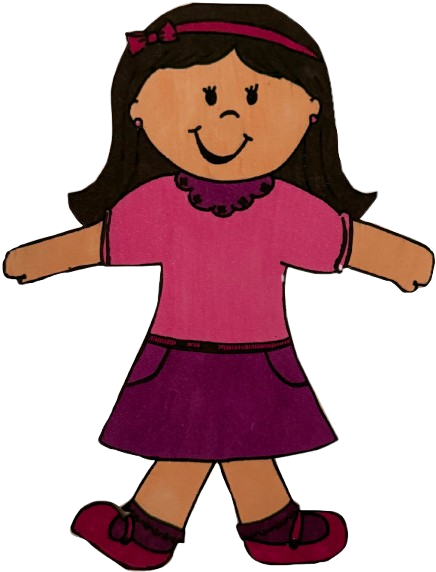
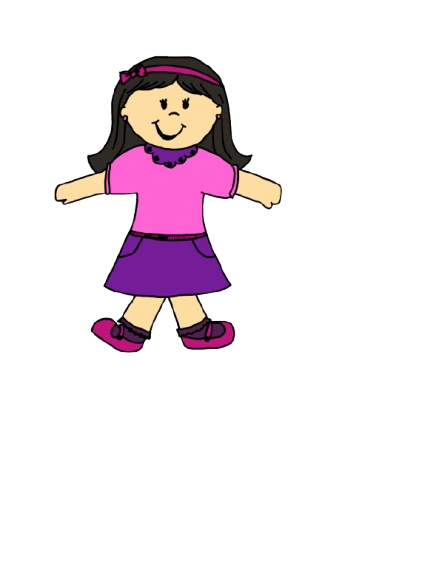
adding lauren's story

diff --git a/index.html b/index.html
@@ -43,7 +43,7 @@
 
     <script>
         // Create the map and set the initial location and zoom
-        const map = L.map('map').setView([39.892504585761245, -97.96167678720126], 5);
+        const map = L.map('map').setView([39.892504585761245, -97.96167678720126], 4);
 
         // Add OpenStreetMap tiles
         L.tileLayer('https://{s}.tile.openstreetmap.org/{z}/{x}/{y}.png', {
@@ -60,6 +60,11 @@
         L.marker([39.200123313401, -76.56947031794836])
             .addTo(map)
             .bindPopup('Sonja: Associate Project Engineer at Ameresco')
+            //.openPopup();
+
+        L.marker([40.0617, -74.1096])
+            .addTo(map)
+            .bindPopup('Lauren: Camera operator for the Banana Ball Broadcast Team')
             //.openPopup();
     </script>
 
@@ -228,14 +233,136 @@
                     <span class="dot" onclick="currentSlide2(3)"></span>
                     <span class="dot" onclick="currentSlide2(4)"></span>
                 </div>
+            </div>
+        </div>
+    </div>
+</div>
+</div>
+
+
+<!-- =========================
+     LAUREN'S STORY
+     ========================= -->
+
+<div class="story">
+    <div class="post">
+        <div class="story-content">
+            <!-- Lauren Slideshow -->
+            <div class="slideshow-section">
+
+                <div id="lauren-slideshow" class="slideshow-container">
+
+                  <div class="mySlides fade">
+                    <img src="images/lauren/laurenTravel.jpg" style="width:100%">
+                    <div id="lauren-travel-text" class="text">Stacy is officially off and on her way to Rickwood Field in Birmingham, Alabama, to help broadcast the Banana Ball Coconuts vs. Clowns game! She's picked up her credential, and we're all set and ready to leave the hotel. We're excited to get to the ballpark, see what the broadcast team has to offer, and bring the energy of this special game to viewers!Stacy is officially off and on her way to Rickwood Field in Birmingham, Alabama, to help broadcast the Banana Ball Coconuts vs. Clowns game! She's picked up her credential, and we're all set and ready to leave the hotel. We're excited to get to the ballpark, see what the broadcast team has to offer, and bring the energy of this special game to viewers!</div>
+                  </div>
+
+                  <div class="mySlides fade">
+                    <img src="images/lauren/laurenProduce.jpg" style="width:100%">
+                    <div class="text">Today, we're producing a game at Rickwood Field, the oldest ballpark in America! We're honored to be part of this special broadcast and help bring the game to viewers. Stacy is working with our producer, Emerson, to finalize the script, ensuring our information and stories are ready for the show. Producing requires organization, creativity, and teamwork to bring everything together for a successful broadcast</div>
+                  </div>
+
+                  <div class="mySlides fade">
+                    <img src="images/lauren/laurenBroadcast.jpg" style="width:100%">
+                    <div class="text">Here in the broadcast control room, Chris directs camera operators, replay, and graphics to make sure everything comes together smoothly during a live production. Stacy helped him call camera shots, coordinate replays, and communicate with the graphics team. This role requires strong communication, quick decision-making, and teamwork to keep the broadcast running smoothly.</div>
+                  </div>
+
+                  <div class="mySlides fade">
+                    <img src="images/lauren/laurenData.jpg" style="width:100%">
+                    <div class="text">Here in broadcast, Emma operates XPression to build and input data for in-game graphics that appear live on the broadcast. Stacy helped her prepare graphics, enter game information, and make sure everything was accurate before going on air. This job combines technology, attention to detail, and quick thinking to keep viewers informed throughout the game.</div>
+                  </div>
+
+                  <div class="mySlides fade">
+                    <img src="images/lauren/laurenA1.jpg" style="width:100%">
+                    <div class="text">Here in broadcast, Jared works as the A1, managing all the audio for the live production. He makes sure commentators, microphones, and other audio sources sound clear for viewers. Stacy helped Jared learn how to manage audio levels, monitor sound, and ensure everything sounds great on air. This role requires technical knowledge, attention to detail, and quick problem-solving to keep the broadcast sounding its best.</div>
+                  </div>
+
+                  <div class="mySlides fade">
+                    <img src="images/lauren/laurenJess.jpg" style="width:100%">
+                    <div class="text">Today, Stacy is helping Jess operate the broadcast gimbal, a camera system used for on-field hits and interviews during the live broadcast. Together, they capture engaging shots and bring viewers closer to the action. Working as a camera operator requires teamwork, creativity, and technical skills to capture great footage!</div>
+                  </div>
+
+                  <div class="mySlides fade">
+                    <img src="images/lauren/laurenJames.jpg" style="width:100%">
+                    <div class="text">Here in broadcast, James is responsible for managing all the technical aspects of our productions. He makes sure everything gets on the air and stays on the air, from checking equipment to troubleshooting technical issues. Stacy helped him monitor equipment, check technical setups, and learn how we keep a broadcast running smoothly. Every day brings new challenges that require problem-solving, teamwork, and technical skills.</div>
+                  </div>
+
+                  <div class="mySlides fade">
+                    <img src="images/lauren/laurenAdrian.jpg" style="width:100%">
+                    <div class="text">Here in broadcast, Stacy and Adrian put in the work! From wrangling cables and setting up equipment to helping bring productions to life, every day is a hands-on experience. They worked together to keep things running smoothly, solve problems, and make people smile.</div>
+                  </div>
+
+                  <div class="mySlides fade">
+                    <img src="images/lauren/laurenCamera.jpg" style="width:100%">
+                    <div class="text">Look at Stacy go! She's taking charge of the low third camera all by herself and capturing the action like a pro!</div>
+                  </div>
+
+                  <div class="mySlides fade">
+                    <img src="images/lauren/laurenBall.jpg" style="width:100%">
+                    <div class="text">Wow! Stacy even caught a foul ball! In Banana Ball, a fan catching a foul ball counts as an out, making this an exciting moment for everyone in the ballpark!</div>
+                  </div>
+
+                    <!-- Lauren Controls -->
+                  <a class="prev" onclick="plusSlides3(-1)">&#10094;</a>
+                  <a class="next" onclick="plusSlides3(1)">&#10095;</a>
+
+                </div>
+
+                <!-- Lauren Dots -->
+                <div style="text-align:center">
+                    <span class="dot" onclick="currentSlide3(1)"></span>
+                    <span class="dot" onclick="currentSlide3(2)"></span>
+                    <span class="dot" onclick="currentSlide3(3)"></span>
+                    <span class="dot" onclick="currentSlide3(4)"></span>
+                    <span class="dot" onclick="currentSlide3(5)"></span>
+                    <span class="dot" onclick="currentSlide3(6)"></span>
+                    <span class="dot" onclick="currentSlide3(7)"></span>
+                    <span class="dot" onclick="currentSlide3(8)"></span>
+                    <span class="dot" onclick="currentSlide3(9)"></span>
+                    <span class="dot" onclick="currentSlide3(10)"></span>
+                </div>
 
             </div>
 
+
+            <!-- Lauren Card -->
+            <div class="card">
+
+                <div class="card-inner">
+
+                    <div class="card-front">
+                        <img src="images/lauren/laurenHeadshot.jpg" alt="Lauren's headshot" style="height:100%">
+                    </div>
+
+                    <div class="card-back">
+                        <p id="lauren-bio" class="card-back-text">
+                            Hi, I'm Lauren Zycband, a camera operator for the 
+                            Banana Ball Broadcast Team (BTV). I graduated from 
+                            High Point University in May 2026 with a degree in 
+                            Media Production. I'm from Brick, New Jersey and I'm 
+                            passionate about live sports broadcasting and capturing 
+                            the excitement, energy, and unforgettable moments of the 
+                            game from behind the camera. As a BTV camera operator, I 
+                            travel across the United States, operating stationary 
+                            cameras for live field productions. Working under the 
+                            direction of Broadcast and Videoboard Directors, I focus 
+                            on framing and executing shots that support broadcast 
+                            storytelling and enhance the overall viewing experience. I 
+                            also assist with camera setup, preparation, equipment 
+                            breakdown, and post-game wrap. This weekend, I traveled to 
+                            Birmingham, Alabama, with Stacy to help broadcast the Banana 
+                            Ball Coconuts vs. Clowns game at Rickwood Field. Established 
+                            in 1910, Rickwood Field is recognized as America's oldest 
+                            professional baseball park, making this an especially exciting 
+                            opportunity. Being part of the BTV team allows me to apply my 
+                            production skills in a fast-paced, live sports environment while 
+                            continuing to grow my experience and passion for the broadcasting industry.
+                        </p>
+                    </div>
+                </div>
+            </div>
         </div>
-
     </div>
-
-</div>
 </div>
 
 

diff --git a/code.js b/code.js
@@ -100,3 +100,54 @@ function showSlides2(n) {
     // Activate the selected Sonja dot
     dots[slideIndex2 - 1].className += " active";
 }
+
+// ==========================================
+// LAUREN'S SLIDESHOW
+// ==========================================
+
+let slideIndex3 = 1;
+
+showSlides3(slideIndex3);
+
+function plusSlides3(n) {
+    showSlides3(slideIndex3 += n);
+}
+
+function currentSlide3(n) {
+    showSlides3(slideIndex3 = n);
+}
+
+function showSlides3(n) {
+
+    const slideshow = document.getElementById("lauren-slideshow");
+
+    // ONLY get slides and dots inside Lauren's slideshow
+    const slides = slideshow.getElementsByClassName("mySlides");
+    const dots = document.querySelectorAll(
+        "#lauren-slideshow + div .dot"
+    );
+
+    if (n > slides.length) {
+        slideIndex3 = 1;
+    }
+
+    if (n < 1) {
+        slideIndex3 = slides.length;
+    }
+
+    // Hide Lauren's slides
+    for (let i = 0; i < slides.length; i++) {
+        slides[i].style.display = "none";
+    }
+
+    // Remove active from Lauren's dots
+    for (let i = 0; i < dots.length; i++) {
+        dots[i].className = dots[i].className.replace(" active", "");
+    }
+
+    // Show the selected Lauren slide
+    slides[slideIndex3 - 1].style.display = "block";
+
+    // Activate the selected Lauren dot
+    dots[slideIndex3 - 1].className += " active";
+}

diff --git a/style.css b/style.css
@@ -134,7 +134,13 @@ a:hover {
     }
 }
 
+#lauren-bio {
+    font-size: clamp(0.6rem, 1.5vw, .8rem);
+}
 
+#lauren-travel-text {
+    font-size: clamp(0.4rem, 1.5vw, 0.5rem);
+}
 
 /* From Uiverse.io by vamsidevendrakumar */ 
 .card {
